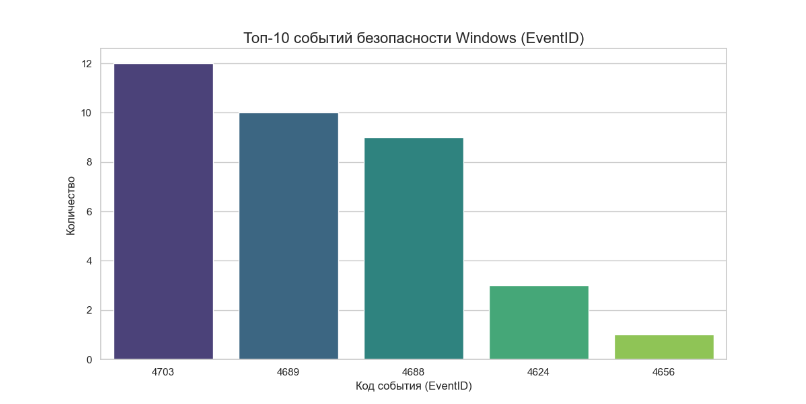
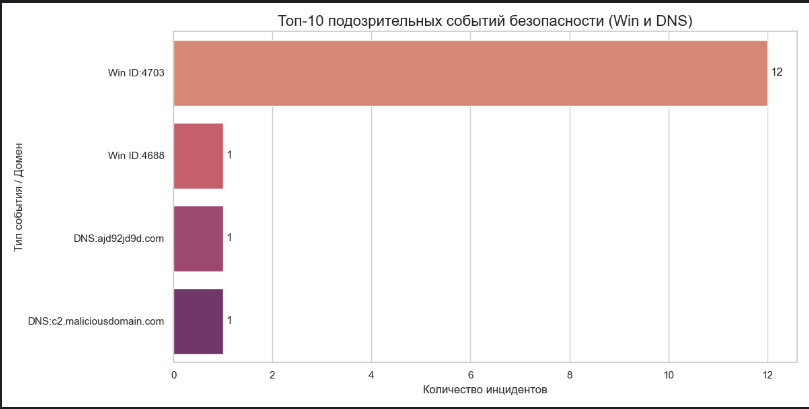
Add files via upload

diff --git a/hw11.py b/hw11.py
@@ -3,57 +3,67 @@ import pandas as pd
 import matplotlib.pyplot as plt
 import seaborn as sns
 
-# Загрузка данных из файла с логами
+# Загрузка данных из JSON-файла
 file_path = 'botsv1.json'
-
 with open(file_path, 'r', encoding='utf-8') as f:
     raw_data = json.load(f)
 
-# Нормализация данных, создаем список словарей извлекая только 'result'
+# Извлечение результатов и создание основного датафрейма
 clean_data = [item['result'] for item in raw_data]
-
-# Создание датафрейма
 df = pd.DataFrame(clean_data)
 
-# Доступные источники логов
-print("Доступные типы источников:", df['sourcetype'].unique())
+# Функция для приведения данных в строковый формат
+def normalize_val(val):
+    if isinstance(val, list):
+        return str(val[0])
+    return str(val)
 
-# Фильтр, только WinEventLog
-windows_logs = df[df['sourcetype'] == 'WinEventLog:Security']
+# Нормализация ключевых колонок для корректной фильтрации
+df['EventCode'] = df['EventCode'].apply(normalize_val)
+df['sourcetype'] = df['sourcetype'].apply(normalize_val)
 
-# Количество событий по кодам (топ10)
-top_events = windows_logs['EventCode'].value_counts().head(10)
+# Анализ логов Windows: поиск запусков PowerShell и изменения прав доступа
+win_suspicious = df[
+    (df['sourcetype'] == 'WinEventLog:Security') &
+    (
+        (df['EventCode'] == '4703') |
+        ((df['EventCode'] == '4688') & df['Process_Command_Line'].str.contains('powershell', case=False, na=False))
+    )
+].copy()
+win_suspicious['Event_Label'] = "Win ID:" + win_suspicious['EventCode']
 
-print("Топ-10 событий Windows:")
-print(top_events)
+# Анализ DNS логов: поиск подозрительных доменов по тегам в eventtype
+def check_dns(row):
+    # Проверка принадлежности к DNS логам и наличие подозрительных тегов
+    is_dns = row.get('LogName') == 'DNS' or 'dns' in str(row.get('sourcetype', '')).lower()
+    if is_dns:
+        etype = row.get('eventtype', [])
+        tags = ['suspicious', 'dns_beaconing']
+        if isinstance(etype, list) and any(tag in etype for tag in tags):
+            return True
+    return False
 
-# Поиск конкретных "подозрительных" событий
-suspicious_processes = windows_logs[
-    (windows_logs['EventCode'] == '4688') &
-    (windows_logs['New_Process_Name'].str.contains('powershell', case=False, na=False))
-]
+dns_suspicious = df[df.apply(check_dns, axis=1)].copy()
+dns_suspicious['Event_Label'] = "DNS:" + dns_suspicious['QueryName'].apply(normalize_val)
 
-print(f"\nНайдено запусков PowerShell: {len(suspicious_processes)}")
+# Объединение всех подозрительных событий в один набор для визуализации
+all_suspicious = pd.concat([win_suspicious, dns_suspicious])
+top_10_events = all_suspicious['Event_Label'].value_counts().head(10)
 
-# Код для DNS (демонстрация реализации, закомментирован т.к. в нашем датафрейме нет таких событий)
-# dns_logs = df[df['sourcetype'] == 'stream:dns']
-
-# Поиск редких доменов
-# rare_queries = dns_logs['query'].value_counts()
-# print(rare_queries[rare_queries == 1]) # Те, к которым обращались 1 раз
-
-# Поиск длинных поддоменов (днс-туннелирование)
-# dns_logs['query_length'] = dns_logs['query'].str.len()
-# suspicious_dns = dns_logs[dns_logs['query_length'] > 50]
-
-# Настройка стиля графического вывода
+# Настройка стиля и создание графика для топ-10 событий
 sns.set_theme(style="whitegrid")
 plt.figure(figsize=(12, 6))
 
-# Построение чарта для Топ-10 EventID
-sns.barplot(x=top_events.index, y=top_events.values, palette="viridis")
+# Построение диаграммы
+plot = sns.barplot(x=top_10_events.values, y=top_10_events.index, palette="flare")
 
-plt.title('Топ-10 событий безопасности Windows (EventID)', fontsize=16)
-plt.xlabel('Код события (EventID)', fontsize=12)
-plt.ylabel('Количество', fontsize=12)
+plt.title('Топ-10 подозрительных событий безопасности (Win и DNS)', fontsize=16)
+plt.xlabel('Количество инцидентов', fontsize=12)
+plt.ylabel('Тип события / Домен', fontsize=12)
+
+# Добавление числовых подписей к столбцам
+for i in plot.containers:
+    plot.bar_label(i, padding=3)
+
+plt.tight_layout()
 plt.show()
